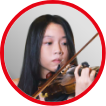
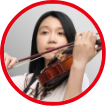
Revert back pgae link, change youtube link, profile image

diff --git a/src/App.vue b/src/App.vue
@@ -11,7 +11,7 @@
       <share href="https://udn.com/upf/ubrand/2019_data/DaretoDream/index.html"></share>
       <br>
       <div class="title-track-same-month">
-        <youtube src="https://www.youtube.com/embed/CJNp2fLVez0"></youtube>
+        <youtube src="https://www.youtube.com/embed/IiaNGVROjNA"></youtube>
         <div class="content">
           <a :href="hotVideo">
             <div class="content-item new">
@@ -123,7 +123,7 @@ export default {
       coverTitle: require('@/../static/cover_title.svg'),
       logo: require('@/../static/logo_web.svg'),
       logoDown: require('@/../static/logo.png'),
-      hotVideo: 'https://dc.udn.com/nereus/TEK1903F0001/DaretoDream_Angel/index.html',
+      hotVideo: 'https://udn.com/upf/ubrand/2019_data/DaretoDream_Angel/index.html',
       profiles: [
       {
         id: 'duncan_btn',
@@ -207,8 +207,8 @@ export default {
           slogan: '一把提琴獨闖6國<br>她用音樂征服殘酷街頭',
           img: require('@/../static/flag3.png'),
           img_web: require('@/../static/flag3_web.png'),
-          linkTo: 'https://dc.udn.com/nereus/TEK1903F0001/DaretoDream_Angel/index.html',
-          video: 'https://www.youtube.com/embed/CJNp2fLVez0'
+          linkTo: 'https://udn.com/upf/ubrand/2019_data/DaretoDream_Angel/index.html',
+          video: 'https://www.youtube.com/embed/IiaNGVROjNA'
         }
       ]
     }
